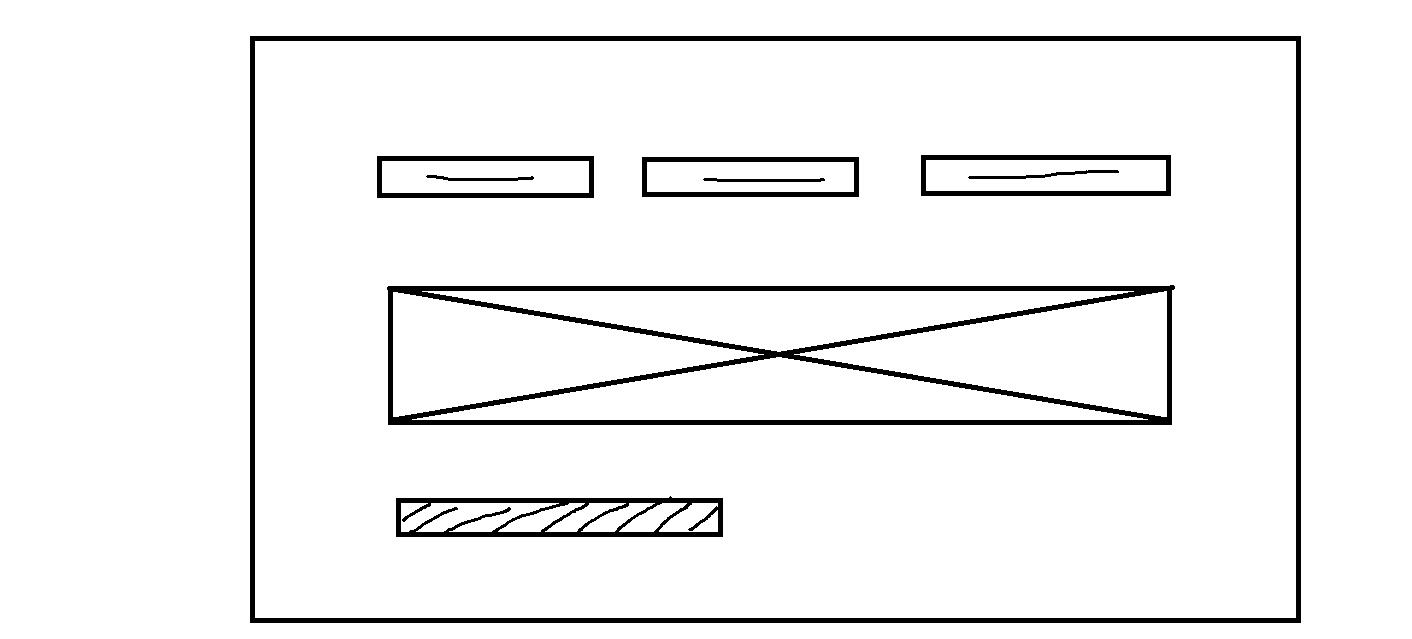
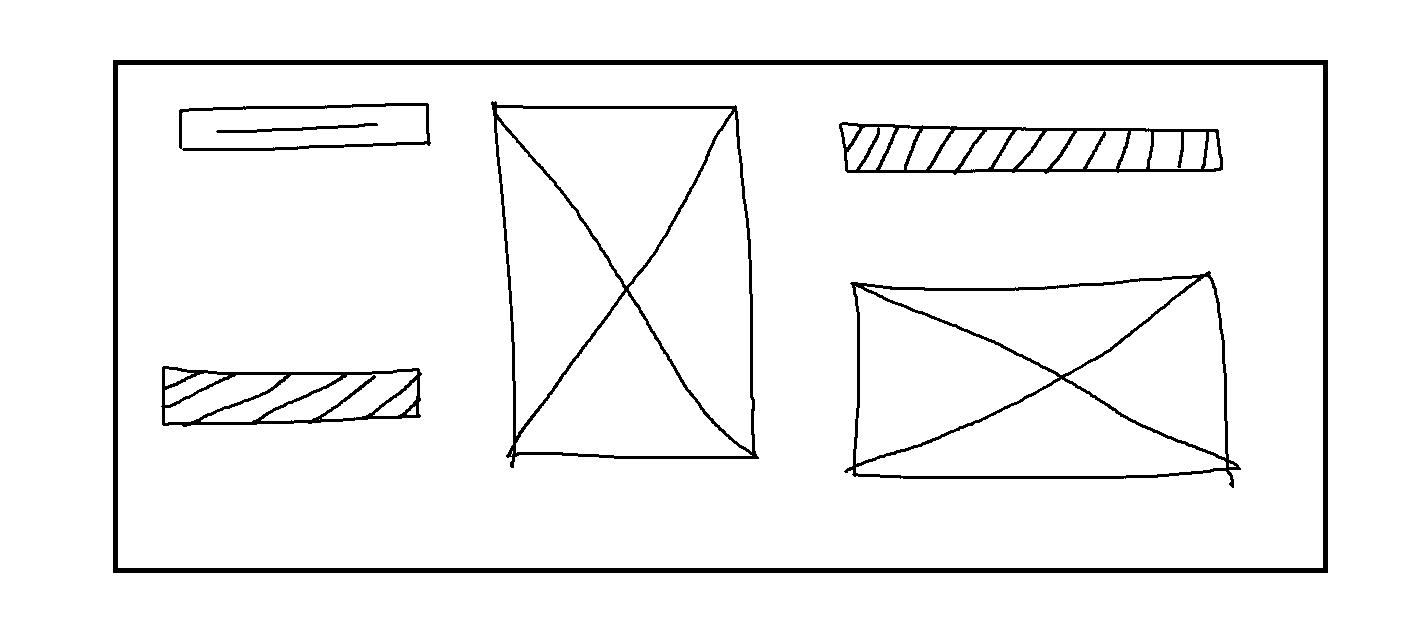
Positioning changes

diff --git a/8thSemProject/modules/SVM.py b/8thSemProject/modules/SVM.py
@@ -176,6 +176,9 @@ class SVMfactory:
         
         self.render_setup(parent)
 
+    def fix_new_position(self,direction):
+        pass
+    
     def render_setup(self,parent):
         range_blocker = [((i.w-i.x1), i)
                                 for i in self.HTML_element_list]
@@ -184,7 +187,7 @@ class SVMfactory:
         clusters = []
         temp_clust = []
         for i in range(1, len(range_blocker)):
-            if (range_blocker[i][0] - range_blocker[i-1][0]) < 100:
+            if (range_blocker[i][0] - range_blocker[i-1][0]) < 50:
                 temp_clust.append(range_blocker[i])
                 temp_clust.append(range_blocker[i-1])
             else:
@@ -232,6 +235,33 @@ class SVMfactory:
                     min_diff = abs(j[0] - (i.top_offset))
                     min_obj = j[1]
             i.attach_new_top(min_obj)
+            
+        
+        range_blocker = [((i.x1), i)
+                                for i in self.HTML_element_list]
+        range_blocker.sort(key=lambda x:x[0])
+        clusters = []
+        temp_clust = []
+        for i in range(1, len(range_blocker)):
+            if (range_blocker[i][0] - range_blocker[i-1][0]) < 50:
+                temp_clust.append(range_blocker[i])
+                temp_clust.append(range_blocker[i-1])
+            else:
+                clusters.append(temp_clust)
+                temp_clust = []
+                temp_clust.append(range_blocker[i])
+        
+        clusters.append(temp_clust)
+        clusters = [i for i in clusters if len(i) > 0]
+        clusters = [i[0] for i in clusters]
+        for i in self.HTML_element_list:
+            min_diff = 100000
+            min_obj = None
+            for j in clusters:
+                if abs(j[0] - (i.x1)) < min_diff:
+                    min_diff = abs(j[0] - (i.x1))
+                    min_obj = j[1]
+            i.attach_new_left(min_obj)
             
                     
         for i in self.HTML_element_list:

diff --git a/8thSemProject/modules/HTMLFactory.py b/8thSemProject/modules/HTMLFactory.py
@@ -31,6 +31,9 @@ class HTMLFactory(object):
     def attach_new_top(self,obj):
         self.top_offset = obj.top_offset
     
+    def attach_new_left(self,obj):
+        self.x1 = obj.x1
+    
     def view_coordinates(self):
         return "W : %d" % (self.w)
     
@@ -73,14 +76,14 @@ class HTMLFactory(object):
         fp.write(self.html_template())
         fp.close()
         fp = open(os.path.abspath(os.path.join(os.path.dirname(
-            __file__), '..','static', 'styles', 'index.css')), "a+")
+            __file__), '..','static', 'styles',     'index.css')), "a+")
         fp.write(self.css_template())
         fp.close()
 
     def set_css(self,parent):
         self.width = str(int((int(self.w) / int(parent.w))*100) - 3) + "% !important"
         self.height = str(int(((int(self.h - self.y1) / int(parent.h))*100)) - 2)+ "% !important"
-        self.left = str(int((int(self.x1) / (int(parent.w)) )* 100)) + "%"
+        self.left = str(int((int(self.x1) / (int(parent.w)) )* 100) + 10) + "%"
         self.top = str(int((int(self.top_offset) / int(parent.h)) * 100) + 8) + "%"
 
 class HTMLElementTemplateFactory:
